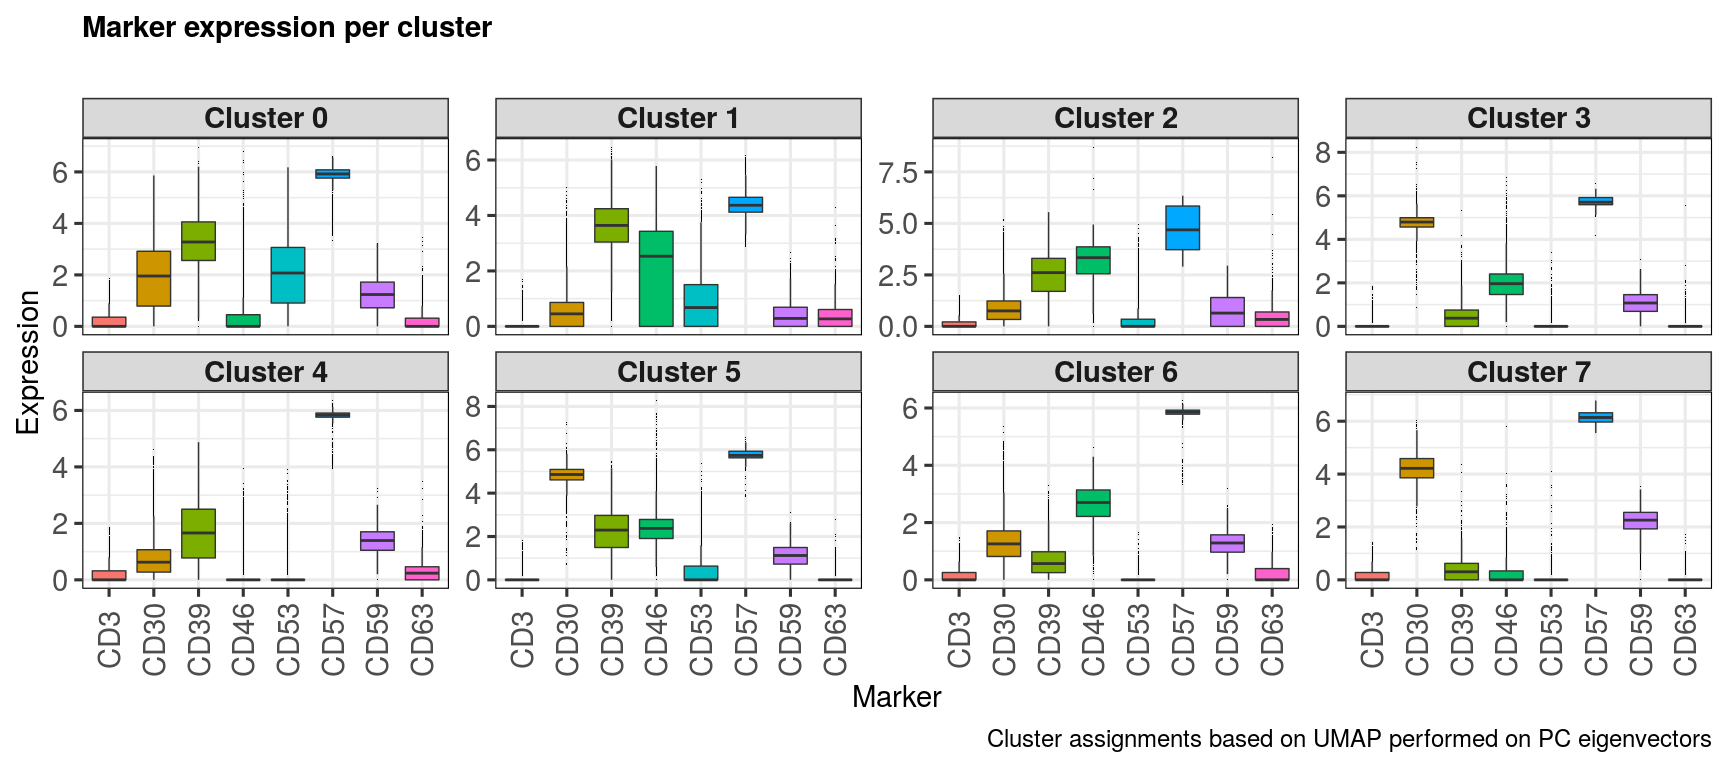
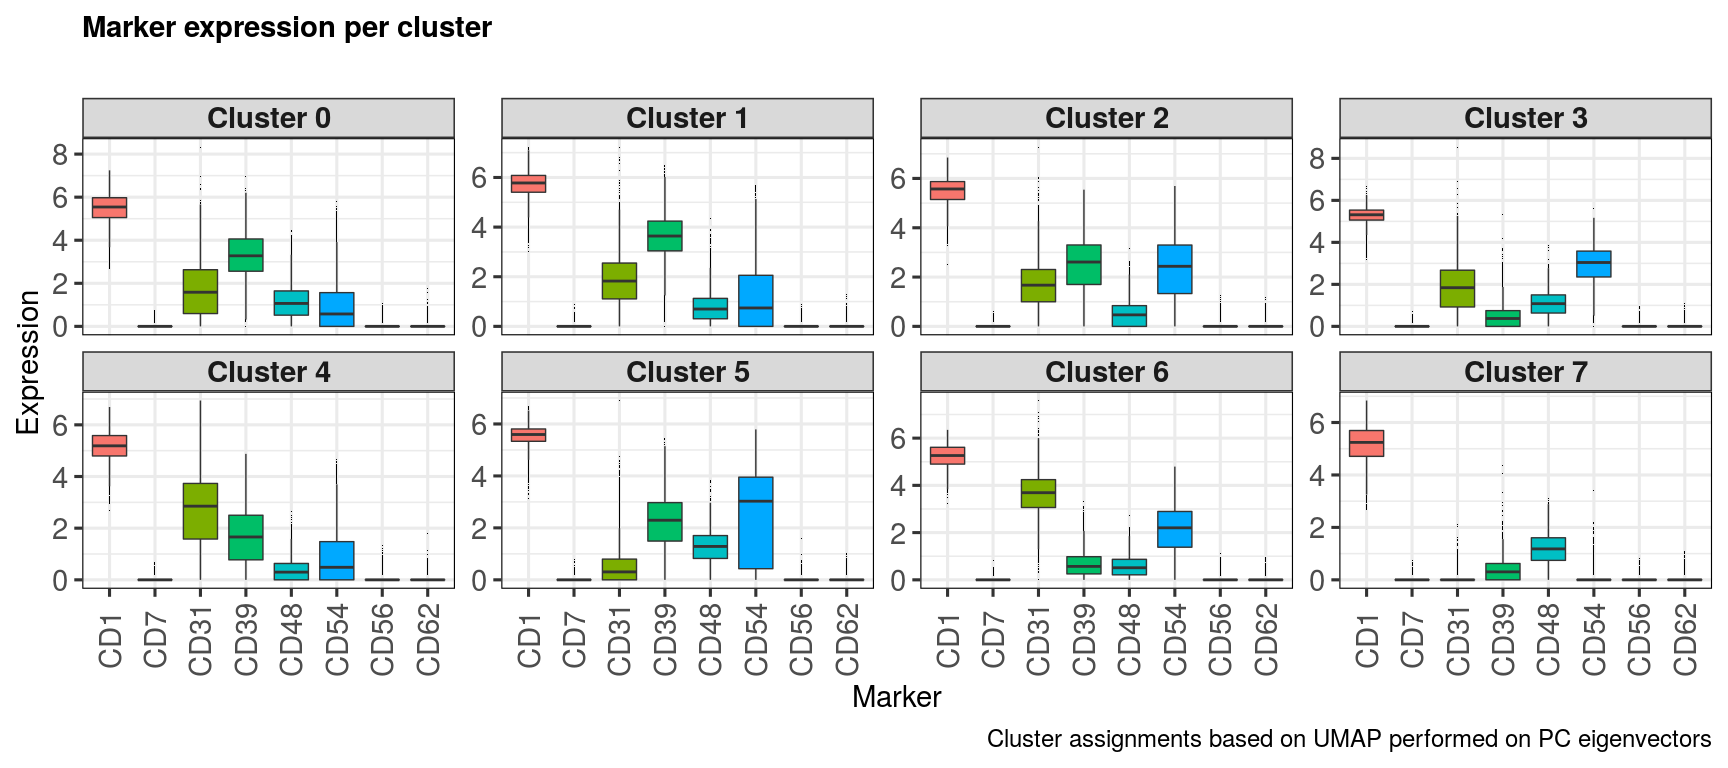
Tidy vignette formatiing

diff --git a/README.md b/README.md
@@ -16,9 +16,6 @@ Kevin Blighe
     -   [Find ideal clusters in the UMAP layout via k-nearest neighbours](#find-ideal-clusters-in-the-umap-layout-via-k-nearest-neighbours)
     -   [Plot marker expression per identified cluster](#plot-marker-expression-per-identified-cluster)
     -   [Determine enriched markers in each cluster and plot the expression signature](#determine-enriched-markers-in-each-cluster-and-plot-the-expression-signature)
-        -   [Disease vs Healthy metacluster abundances](#disease-vs-healthy-metacluster-abundances)
-        -   [Treatment type metacluster abundances](#treatment-type-metacluster-abundances)
-        -   [Expression signature](#expression-signature)
 -   [Tutorial 2: Import from Seurat](#tutorial-2-import-from-seurat)
 -   [Tutorial 3: Import any numerical data](#tutorial-3-import-any-numerical-data)
 -   [Acknowledgments](#acknowledgments)
@@ -248,7 +245,7 @@ Here, we randomly select some markers and then plot their expression profiles ac
   markers
 ```
 
-    ## [1] "CD1"  "CD21" "CD61" "CD17" "CD13" "CD27"
+    ## [1] "CD44" "CD1"  "CD51" "CD52" "CD20" "CD25"
 
 ``` r
   ggout1 <- markerExpression(sce,
@@ -387,7 +384,7 @@ This function utilises the k nearest neighbours (k-NN) approach from Seurat, whi
     ## Running Louvain algorithm with multilevel refinement...
     ## Maximum modularity in 10 random starts: 0.9985
     ## Number of communities: 13
-    ## Elapsed time: 22 seconds
+    ## Elapsed time: 23 seconds
 
 ``` r
   sce <- clusKNN(sce,
@@ -407,7 +404,7 @@ This function utilises the k nearest neighbours (k-NN) approach from Seurat, whi
     ## Running Louvain algorithm with multilevel refinement...
     ## Maximum modularity in 10 random starts: 0.9974
     ## Number of communities: 8
-    ## Elapsed time: 21 seconds
+    ## Elapsed time: 22 seconds
 
 ``` r
   ggout1 <- plotClusters(sce,
@@ -932,8 +929,7 @@ CD36+
 </tr>
 </tbody>
 </table>
-
-
+.
 
 ### Treatment type metacluster abundances
 
@@ -1475,7 +1471,7 @@ CD36+
 </tr>
 </tbody>
 </table>
-
+.
 
 ### Expression signature
 
@@ -1552,10 +1548,10 @@ Let's check the reduced dimensions and then plot some randomly selected marker e
   markers
 ```
 
-    ##  [1] "DUSP22"       "HOOK2"        "GIPC1"        "MEF2D"        "CKAP4"       
-    ##  [6] "ITPRIPL2"     "PARP8"        "MBLAC1"       "AC008440.5"   "TGIF2"       
-    ## [11] "CTD-2576D5.4" "AC005523.2"   "RP3-486I3.7"  "CASP6"        "PRIMPOL"     
-    ## [16] "CACNA2D4"     "NDUFB9"       "PPP2R5B"
+    ##  [1] "CDCA4"       "CNN2"        "GUCY1A3"     "HIP1"        "ZNF3"       
+    ##  [6] "FXYD5"       "TMEM208"     "DCPS"        "CYB561D2"    "ANKS1B"     
+    ## [11] "RP1-315G1.3" "PCBP2"       "SEC22C"      "PSMB8"       "ZNF564"     
+    ## [16] "EHBP1"       "SDK2"        "MT-ND1"
 
 ``` r
   ggout <- markerExpression(pbmc.sce,
@@ -2021,8 +2017,7 @@ HLA-DRA+HLA-DPB1+LYZ+CST3+
 </tr>
 </tbody>
 </table>
-
-
+.
 
 Tutorial 3: Import any numerical data
 =====================================
